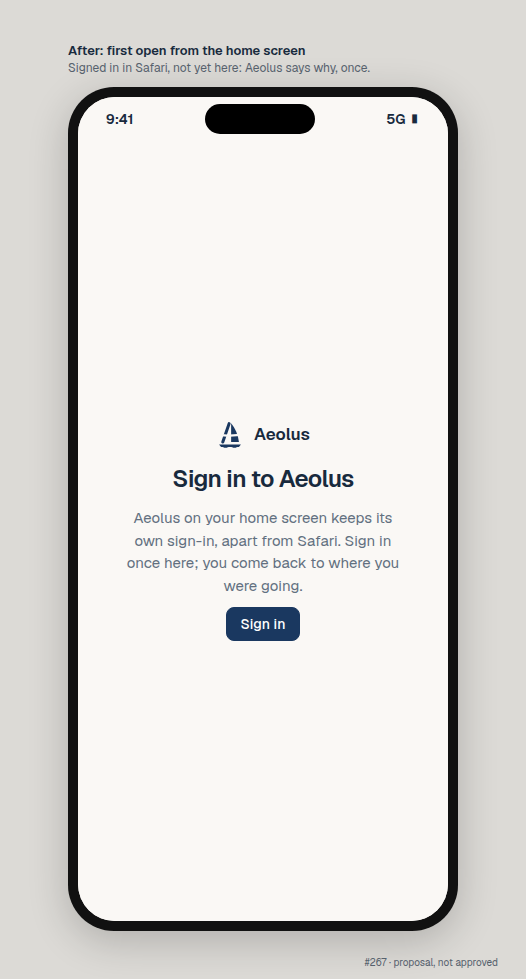
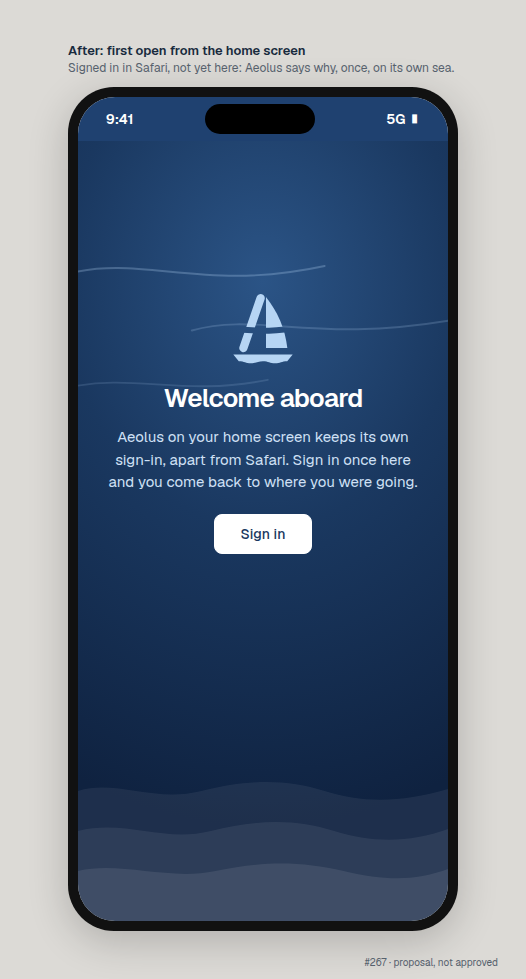
Installing Aeolus: Thomas's revisions to More, no connection and sign-in (Refs #267)

diff --git a/docs/design/bridge-app/install/mockups/index.html b/docs/design/bridge-app/install/mockups/index.html
@@ -57,6 +57,20 @@ body{margin:0;background:#dcdad6;font-family:var(--font-geist-sans),Geist,system
 .label{position:absolute;left:12px;top:8px;font:11px Geist,system-ui;color:#fff;background:#182a3dcc;padding:3px 8px;border-radius:6px;z-index:5}
 .inapp{position:absolute;inset:44px 0 0;background:var(--surface);border-radius:12px 12px 0 0;box-shadow:0 -6px 30px #0004;display:flex;flex-direction:column}
 .inapp header{display:flex;justify-content:space-between;align-items:center;padding:10px 14px;border-bottom:1px solid var(--line);font:13px Geist,system-ui;color:var(--muted)}.inapp header b{color:#2f7cf6;font-weight:600}
+.cardx svg{width:18px;height:18px;flex:none;color:var(--muted)}
+.cardx .brandline svg{width:22px;height:22px;color:var(--navy)}
+.status.onsea{background:#1f4170;color:#fff}
+.sea .formcard{background:#fff;color:#182a3d;border-radius:16px;padding:18px;width:100%;box-sizing:border-box;text-align:left;box-shadow:0 10px 30px #0004}
+.sea .formcard .urlbar{background:#f1f2f4;color:#182a3d;text-align:left;margin-top:6px}
+.sea{position:relative;flex:1;overflow:hidden;background:radial-gradient(120% 70% at 50% 18%,#2b5486 0%,#1a3860 45%,#0f2240 100%);color:#fff;font:15px/1.5 Geist,system-ui}
+.sea .waves{position:absolute;left:0;right:0;bottom:0;width:100%;height:200px}
+.sea .gusts{position:absolute;left:0;top:70px;width:100%;height:220px;opacity:.5}
+.sea .inner{position:relative;z-index:1;display:flex;flex-direction:column;align-items:center;text-align:center;gap:12px;padding:150px 30px 0}
+.sea h1{font-size:26px;margin:4px 0 0;color:#fff}.sea p{color:#cfe0f5;margin:0}
+.sea .mk{width:76px;height:76px}
+.sea .btnx.primary{background:#fff;color:#1a3860;border-color:#fff;padding:10px 26px;margin-top:8px}
+.calm{width:150px;height:150px;border-radius:50%;background:var(--wash);display:grid;place-items:center;margin-bottom:6px}
+.calm svg{width:92px;height:92px}
 .draftx{position:absolute;right:28px;bottom:10px;font:10px Geist,system-ui;color:#56616d}
 </style></head><body><div id="app"></div><script>
 const q=new URLSearchParams(location.search),sheet=q.get('sheet')||'index',theme=q.get('theme')||'light';
@@ -64,6 +78,9 @@ document.documentElement.classList.toggle('dark',theme==='dark');
 const svg=(p,c='')=>`<svg class="${c}" xmlns="http://www.w3.org/2000/svg" viewBox="0 0 24 24" fill="none" stroke="currentColor" stroke-width="2" stroke-linecap="round" stroke-linejoin="round" aria-hidden="true">${p}</svg>`;
 const I={share:'<path d="M12 2v13"/><path d="m16 6-4-4-4 4"/><path d="M4 12v8a2 2 0 0 0 2 2h12a2 2 0 0 0 2-2v-8"/>',plus:'<rect width="18" height="18" x="3" y="3" rx="2"/><path d="M8 12h8"/><path d="M12 8v8"/>',wifi:'<path d="M12 20h.01"/><path d="M8.5 16.429a5 5 0 0 1 7 0"/><path d="M5 12.859a10 10 0 0 1 5.17-2.69"/><path d="M19 12.859a10 10 0 0 0-2.007-1.523"/><path d="M2 8.82a15 15 0 0 1 4.177-2.643"/><path d="M22 8.82a15 15 0 0 0-11.288-3.764"/><path d="m2 2 20 20"/>',down:'<path d="M12 15V3"/><path d="M21 15v4a2 2 0 0 1-2 2H5a2 2 0 0 1-2-2v-4"/><path d="m7 10 5 5 5-5"/>',login:'<path d="m10 17 5-5-5-5"/><path d="M15 12H3"/><path d="M15 3h4a2 2 0 0 1 2 2v14a2 2 0 0 1-2 2h-4"/>',left:'<path d="m15 18-6-6 6-6"/>',right:'<path d="m9 18 6-6-6-6"/>',book:'<path d="M12 7v14"/><path d="M3 18a1 1 0 0 1-1-1V4a1 1 0 0 1 1-1h5a4 4 0 0 1 4 4 4 4 0 0 1 4-4h5a1 1 0 0 1 1 1v13a1 1 0 0 1-1 1h-6a3 3 0 0 0-3 3 3 3 0 0 0-3-3z"/>',tabs:'<rect width="18" height="18" x="3" y="3" rx="2"/><rect width="10" height="10" x="7" y="7" rx="1"/>',up:'<path d="M7 7h10v10"/><path d="M7 17 17 7"/>'};
 const mark=`<svg viewBox="0 0 64 64" role="img" aria-label="Aeolus"><g color="#1A3860"><mask id="wind" maskUnits="userSpaceOnUse" x="0" y="0" width="64" height="64"><rect width="64" height="64" fill="#fff"/><path d="M0 34 C14 29 26 38 64 30" stroke="#000" stroke-width="5" fill="none"/></mask><g mask="url(#wind)"><path d="M30 6 L15.5 48" stroke="currentColor" stroke-width="7" stroke-linecap="round" fill="none"/><path d="M34.5 5 C44 17 50.5 31 52.5 48 H34.5 Z" fill="currentColor"/></g><path d="M7 53.5 H57 L52.4 59.2 C47.5 59.2 46.6 60.9 42.2 60.9 C37.8 60.9 36.6 59.2 32 59.2 C27.4 59.2 26.2 60.9 21.8 60.9 C17.4 60.9 16.5 59.2 11.6 59.2 Z" fill="currentColor"/></g></svg>`;
+const markIn=(c)=>mark.replace('#1A3860',c).replace(/id="wind"/,'id="wind2"').replace('url(#wind)','url(#wind2)');
+const waves=`<svg class="waves" viewBox="0 0 390 200" preserveAspectRatio="none"><path d="M0 70 C40 58 80 82 130 70 S220 58 260 70 S340 82 390 68 V200 H0Z" fill="#ffffff10"/><path d="M0 110 C50 98 90 122 140 110 S230 98 270 110 S350 122 390 108 V200 H0Z" fill="#ffffff12"/><path d="M0 150 C45 140 95 160 145 150 S235 140 280 150 S355 160 390 148 V200 H0Z" fill="#ffffff16"/></svg>`;
+const gusts=`<svg class="gusts" viewBox="0 0 390 220" fill="none" stroke="#B6D5F4" stroke-width="2" stroke-linecap="round"><path d="M-10 60 C70 40 130 80 260 52" opacity=".55"/><path d="M120 120 C190 100 250 135 400 108" opacity=".4"/><path d="M-10 180 C60 165 110 190 200 172" opacity=".3"/></svg>`;
 const APP='../../pages/mockups/index.html';
 const TITLE='Aeolus';
 const shot=(name)=>`<img class="frame" style="object-fit:cover;object-position:top" src="../../pages/mockups/${name}-${theme}.png" alt="">`;
@@ -83,11 +100,11 @@ const S={
 'after-iphone-steps':()=>phone('After: Install Aeolus on iPhone<small>Safari has no install button, so Aeolus shows its three taps.</small>',status()+`<div class="page"><p class="muted">‹ More</p><h1>Install Aeolus</h1><p class="muted">Add Aeolus to your home screen. It opens in its own window, and on iPhone it is where notifications can reach you.</p><div class="cardx"><div class="brandline"><img src="apple-touch-icon.png" alt="" style="width:44px;height:44px;border-radius:10px">Aeolus</div><ol class="steps"><li><span>Tap ${svg(I.share)} Share in Safari's bar</span></li><li><span>Tap ${svg(I.plus)} Add to Home Screen</span></li><li><span>Tap Add, then open Aeolus from your home screen</span></li></ol></div><p class="muted" style="font-size:13px;margin-top:14px">Aeolus on your home screen signs in on its own, apart from Safari: you sign in once there.</p></div>`+safari()),
 'after-iphone-add':()=>phone('After: Add to Home Screen<small>The manifest names it Aeolus with the brand tile.</small>',status()+frame('home')+safari()+`<div class="overlay"><div class="sheetpanel"><div class="ios-head"><span>Cancel</span>Add to Home Screen<b>Add</b></div><div class="addcard"><img src="apple-touch-icon.png" alt=""><div><b>Aeolus</b><div class="muted" style="font-size:13px">app.aeolus-fleet.dev</div></div></div><div class="opt">Open as Web App<span style="color:#34c759">●</span></div></div></div>`),
 'after-homescreen':()=>phone('After: on the home screen<small>The Slate tile from brand/, named Aeolus.</small>',status().replace('background:var(--bg)','')+springboard('apple-touch-icon.png','Aeolus')),
-'after-signin':()=>phone('After: first open from the home screen<small>Signed in in Safari, not yet here: Aeolus says why, once.</small>',status()+`<div class="page"><div class="center"><div class="brandline">${mark}Aeolus</div><h1>Sign in to Aeolus</h1><p class="muted">Aeolus on your home screen keeps its own sign-in, apart from Safari. Sign in once here; you come back to where you were going.</p><button class="btnx primary">${'Sign in'}</button></div></div>`),
-'after-signin-sheet':()=>phone('After: sign-in passes through<small>pagasae opens over the app and returns into it.</small>',status()+frame('home')+`<div class="inapp"><header><b>Done</b><span>🔒 Aeolus sign-in</span><span></span></header><div class="page"><div class="center"><div class="brandline">${mark}Aeolus</div><h1>Sign in</h1><div class="cardx" style="width:100%;text-align:left">Email<div class="urlbar" style="text-align:left;margin-top:6px">thomas@…</div></div><button class="btnx primary" style="margin-top:12px">Continue</button></div></div></div>`),
+'after-signin':()=>phone('After: first open from the home screen<small>Signed in in Safari, not yet here: Aeolus says why, once, on its own sea.</small>',status().replace('class="status"','class="status onsea"')+`<div class="sea">${gusts}<div class="inner"><span class="mk">${markIn('#B6D5F4')}</span><h1>Welcome aboard</h1><p>Aeolus on your home screen keeps its own sign-in, apart from Safari. Sign in once here and you come back to where you were going.</p><button class="btnx primary">Sign in</button></div>${waves}</div>`),
+'after-signin-sheet':()=>phone('After: sign-in passes through<small>The shared sign-in opens over the app on the same sea, and returns into it.</small>',status().replace('class="status"','class="status onsea"')+`<div class="sea">${gusts}${waves}</div><div class="inapp" style="top:120px;overflow:hidden"><header><b>Done</b><span>🔒 Aeolus sign-in</span><span></span></header><div class="sea">${gusts}<div class="inner" style="padding-top:44px"><span class="mk" style="width:60px;height:60px">${markIn('#B6D5F4')}</span><h1>Sign in to Aeolus</h1><p>One sign-in for every Aeolus app.</p><div class="formcard">Email<div class="urlbar">thomas@…</div><button class="btnx primary" style="margin-top:14px;width:100%;background:#1a3860;color:#fff">Continue</button></div></div>${waves}</div></div>`),
 'after-standalone':()=>phone('After: Aeolus installed<small>Its own window onto the approved home; no browser bars.</small>',status()+frame('home')),
 'after-leave':()=>phone('After: leaving Aeolus<small>Fleets and account opens the Account app over Aeolus, with Done to return.</small>',status()+frame('more')+`<div class="inapp"><header><b>Done</b><span>🔒 account.aeolus-fleet.dev</span>${svg(I.up).replace('<svg','<svg style="width:16px"')}</header><div class="page"><h1>Account</h1><p class="muted">The Account app: fleets, sign-in and people.</p></div></div>`),
-'after-offline':()=>phone('After: no connection<small>Says so, keeps nothing stale, and nothing is lost.</small>',status()+`<div class="page"><div class="center">${svg(I.wifi,'big')}<h1>No connection</h1><p class="muted">Aeolus cannot reach your fleet. Nothing is lost: what waits for you stays in the fleet and shows here once you are back.</p><button class="btnx primary">Try again</button></div></div>`),
+'after-offline':()=>phone('After: no connection<small>Sails lowered: says so, keeps nothing stale, and nothing is lost.</small>',status()+`<div class="page"><div class="center"><span class="calm">${svg('<path d="M12.8 19.6A2 2 0 1 0 14 16H2"/><path d="M17.5 8a2.5 2.5 0 1 1 2 4H2"/><path d="M9.8 4.4A2 2 0 1 1 11 8H2"/><path d="m3 3 18 18" stroke="var(--amber)"/>').replace('<svg','<svg style="color:var(--navy)"')}</span><h1>Sails lowered</h1><p class="muted">Your fleet can’t hear us right now. Nothing is lost: what waits for you stays in the fleet and shows here once the wind is back.</p><button class="btnx primary">Try again</button></div></div>`),
 'after-desktop-install':()=>desk('After: Install Aeolus on a laptop<small>Settings offers the browser\'s own install; the address bar offers it too.</small>',chrome(TITLE,'icon-512.png',true)+`<div class="page" style="padding:32px 48px"><h1>Settings</h1><div class="cardx" style="max-width:560px;display:flex;gap:16px;align-items:center"><img src="icon-512.png" alt="" style="width:48px;height:48px;border-radius:11px"><div style="flex:1"><b>Install Aeolus</b><div class="muted" style="font-size:14px">Open Aeolus in its own window, from your dock or start menu.</div></div><button class="btnx primary">${'Install'}</button></div><div class="cardx" style="max-width:560px"><b>Where things show</b><div class="muted" style="font-size:14px">Your choices for Aeolus, Slack and chats</div></div></div><div class="prompt"><div class="row"><img src="icon-512.png" alt=""><div><b>Install app?</b><div class="muted">Aeolus · app.aeolus-fleet.dev</div></div></div><div class="btns"><span class="btnx">Cancel</span><span class="btnx primary">Install</span></div></div>`),
 'after-desktop-window':()=>desk('After: the installed window<small>Its own window titled Aeolus, onto the approved home.</small>',titlebar()+frame('home',1200)),
 'after-link':()=>desk('After: a link from Slack<small>The open Aeolus window moves to the question; no second window.</small>',`<div style="display:flex;flex:1;min-height:0"><div class="slack"><b># aeolus</b><div class="msg">orchestrator-1 asks you a question:<br><a>app.aeolus-fleet.dev/…/question</a></div></div><div style="flex:1;display:flex;flex-direction:column;min-width:0">${titlebar()}${frame('conversation',870)}</div></div>`),

diff --git a/docs/design/bridge-app/install/README.md b/docs/design/bridge-app/install/README.md
@@ -115,11 +115,11 @@ Drawn from the approved purpose, Thomas's answers to questions 2 and 5 and the a
 | Icon | The Slate tiles from aeolus-fleet `brand/`: `icon-192.png`, `icon-512.png` and `apple-touch-icon.png`, copied, never redrawn. `brand/` has no maskable tile, so Android draws the rounded tile inside its own shape; a maskable tile belongs in `brand/` ([aeolus-fleet#1682](https://github.com/ThomasHendrickx/aeolus-fleet/issues/1682)) |
 | Install Aeolus | An entry under More on a phone and under Settings on a larger window (question 2). Where the browser offers its own install (Chrome, Edge, Android), the entry's Install button opens that prompt. On iPhone and iPad, it shows Safari's three taps. Where a browser offers neither, it says to use the browser's menu. Inside the installed app the entry does not show |
 | Opening | The installed window shows the approved home, or the item an address names, with no browser bars. Reloading and reopening keep the address (#282) |
-| Signing in | Signing in passes through the shared sign-in over the window and returns into it, to the asked address. The app opened from an iPhone home screen without its own sign-in says once why it asks, since Safari's sign-in does not reach it; in a browser the sign-in starts at once, as today |
+| Signing in | Signing in passes through the shared sign-in over the window and returns into it, to the asked address. The app opened from an iPhone home screen without its own sign-in says once why it asks, since Safari's sign-in does not reach it: "Welcome aboard" on Aeolus's own sea (navy, the light slate mark, wind and waves). In a browser the sign-in starts at once, as today. The sheet draws the shared sign-in on the same sea; that page is pagasae's, so its look is a change there |
 | Leaving | The Account app, the gateway's pages and outside links open in the browser: over the app with Done on iPhone, in a browser tab on a computer. Their outward arrow already says they leave |
 | Links (question 5) | The manifest asks for links within Aeolus to open in the installed app, reusing its open window and moving it to the addressed item, where the browser allows (Chrome and Edge on a computer, Android). On iPhone a link opens Safari, which opens the item as today |
 | Service worker | The app's own, at its address. It serves one page when a navigation fails for want of a connection, and caches only that page and what it draws with: never questions, steps, messages or the fleet. Push and its consent stay with #268 and #269; installing asks no permission |
-| No connection | "No connection. Aeolus cannot reach your fleet. Nothing is lost: what waits for you stays in the fleet and shows here once you are back." with Try again. An open page that loses its connection keeps the existing live state and failure messages of the pages design |
+| No connection | "Sails lowered" over the wind crossed out (Thomas's wording), then "Your fleet can't hear us right now. Nothing is lost: what waits for you stays in the fleet and shows here once the wind is back." with Try again. An open page that loses its connection keeps the existing live state and failure messages of the pages design |
 
 ### The path, happy and unhappy
 
@@ -162,7 +162,7 @@ The build lives in ThomasHendrickx/aeolus-app at `app.aeolus-fleet.dev`, under t
 
 ## Design approval
 
-Asked on Aeolus.
+**First answer: option 2, revise.** Thomas: the Install Aeolus row's arrow was oversized and pushed the text aside; the no connection screen can be more branded, "Sails lowered. Your fleet can't hear us right now.", with a visual iterating on the no-connection one; the sign-in screens were plain and can take Aeolus-themed visuals and background. All three are redrawn above. Asked again on Aeolus.
 
 1. **Approve.** The detailed design and sheets become the acceptance criteria for the build in aeolus-app.
 2. **Revise what the note names.** Change the named sheets or behaviour before approval.
